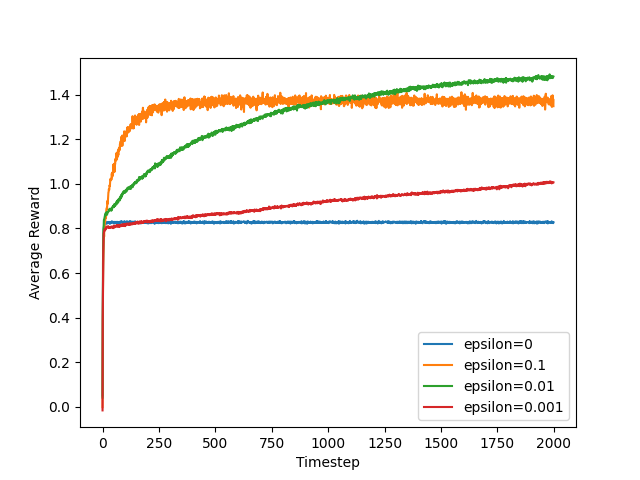
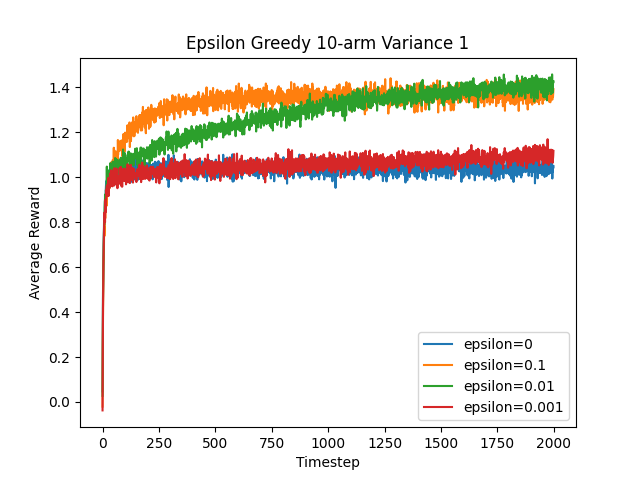
Add title to plot

diff --git a/multi-armed-bandits/epsilon_greedy_results.py b/multi-armed-bandits/epsilon_greedy_results.py
@@ -6,10 +6,11 @@ import matplotlib.pyplot as plt
 
 num_experiments = int(sys.argv[1])
 output_file = sys.argv[2]
+title = sys.argv[3]
 
 for i in range(num_experiments):
-    input_file = sys.argv[i * 2 + 3]
-    label = sys.argv[i * 2 + 4]
+    input_file = sys.argv[i * 2 + 4]
+    label = sys.argv[i * 2 + 5]
 
     data = pd.read_csv(input_file).values
     avg_rewards = np.mean(data, axis=0)
@@ -17,5 +18,6 @@ for i in range(num_experiments):
 
 plt.xlabel("Timestep")
 plt.ylabel("Average Reward")
+plt.title(title)
 plt.legend()
 plt.savefig(output_file)
